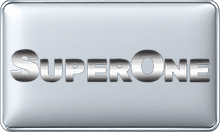
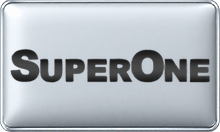
Improve SUPERONE white wordmark contrast

Changed region(s): [[0.0273, 0.3636, 0.9545, 0.6364]]

diff --git a/reports/black-white-qc-2026-10-09/batch-003/checkpoint.md b/reports/black-white-qc-2026-10-09/batch-003/checkpoint.md
@@ -1,0 +1,9 @@
+# BLACK/WHITE QC batch 003
+
+- Baseline branch checkpoint: `6a8e8cd0ea2be8b90601628df7ac7fe01e248401`.
+- Reviewed both variants; repaired WHITE only for `0.8w/digi/1_0_1_C1C_7_1_E080000_0_0_0.png`.
+- Silver/chrome monochrome wordmark was darkened while preserving its grayscale relief; no logo geometry changed.
+- BLACK, transparent source, and both MASTERs stayed byte-identical.
+- WHITE output remains PNG/RGBA 220×132. Visual comparison attached.
+- Last processed identity: `0.8w/digi/1_0_1_C1C_7_1_E080000_0_0_0`.
+- Next: review subsequent service-reference candidates from review sheet 001, beginning at the next not-yet-audited entry.
